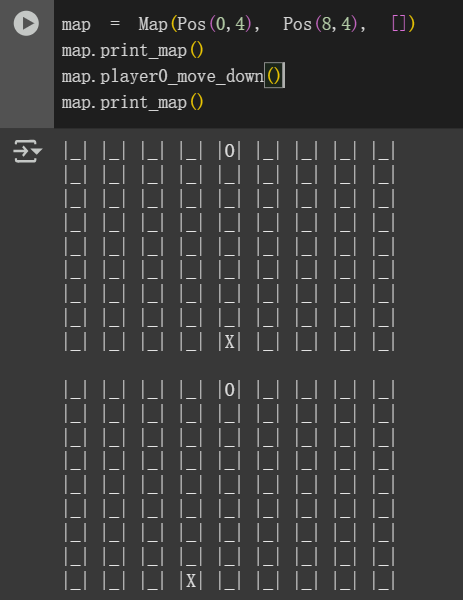
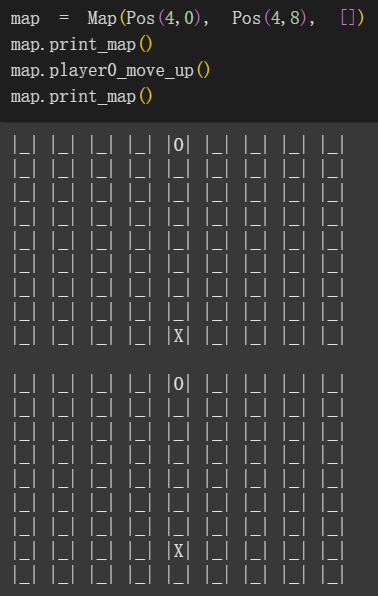
init commit

diff --git a/main.py b/main.py
@@ -1,0 +1,24 @@
+from map import Map, Pos
+map = Map(Pos(4,0), Pos(4,8), [])
+map.print_map()
+map.player0_move_up()
+map.print_map()
+# |_| |_| |_| |_| |O| |_| |_| |_| |_| 
+# |_| |_| |_| |_| |_| |_| |_| |_| |_| 
+# |_| |_| |_| |_| |_| |_| |_| |_| |_|
+# |_| |_| |_| |_| |_| |_| |_| |_| |_|
+# |_| |_| |_| |_| |_| |_| |_| |_| |_|
+# |_| |_| |_| |_| |_| |_| |_| |_| |_|
+# |_| |_| |_| |_| |_| |_| |_| |_| |_|
+# |_| |_| |_| |_| |_| |_| |_| |_| |_|
+# |_| |_| |_| |_| |X| |_| |_| |_| |_|
+
+# |_| |_| |_| |_| |O| |_| |_| |_| |_|
+# |_| |_| |_| |_| |_| |_| |_| |_| |_|
+# |_| |_| |_| |_| |_| |_| |_| |_| |_|
+# |_| |_| |_| |_| |_| |_| |_| |_| |_|
+# |_| |_| |_| |_| |_| |_| |_| |_| |_|
+# |_| |_| |_| |_| |_| |_| |_| |_| |_|
+# |_| |_| |_| |_| |_| |_| |_| |_| |_|
+# |_| |_| |_| |_| |X| |_| |_| |_| |_|
+# |_| |_| |_| |_| |_| |_| |_| |_| |_|

diff --git a/map.py b/map.py
@@ -61,9 +61,9 @@ class Map:
   def print_map(self):
     for i in range(9):
       for j in range(9):
-        if self.player1_pos.x == 8-i and  self.player1_pos.y == j:
+        if self.player1_pos.x == j and  self.player1_pos.y == 8-i:
           print(f'|O|', end=' ')
-        elif self.player0_pos.x == 8-i and  self.player0_pos.y == j:
+        elif self.player0_pos.x == j and  self.player0_pos.y == 8-i:
           print(f'|X|', end=' ')
         else:
           print(f'|_|', end=' ')

diff --git a/README.md b/README.md
@@ -7,3 +7,6 @@ can evaluate future game states to make optimal moves.
 
 ## Game Progress
 ![Progress Screenshot](./progress.png)
+
+## Coordinate System
+![Coordinate System](./coordinate_system.png)
